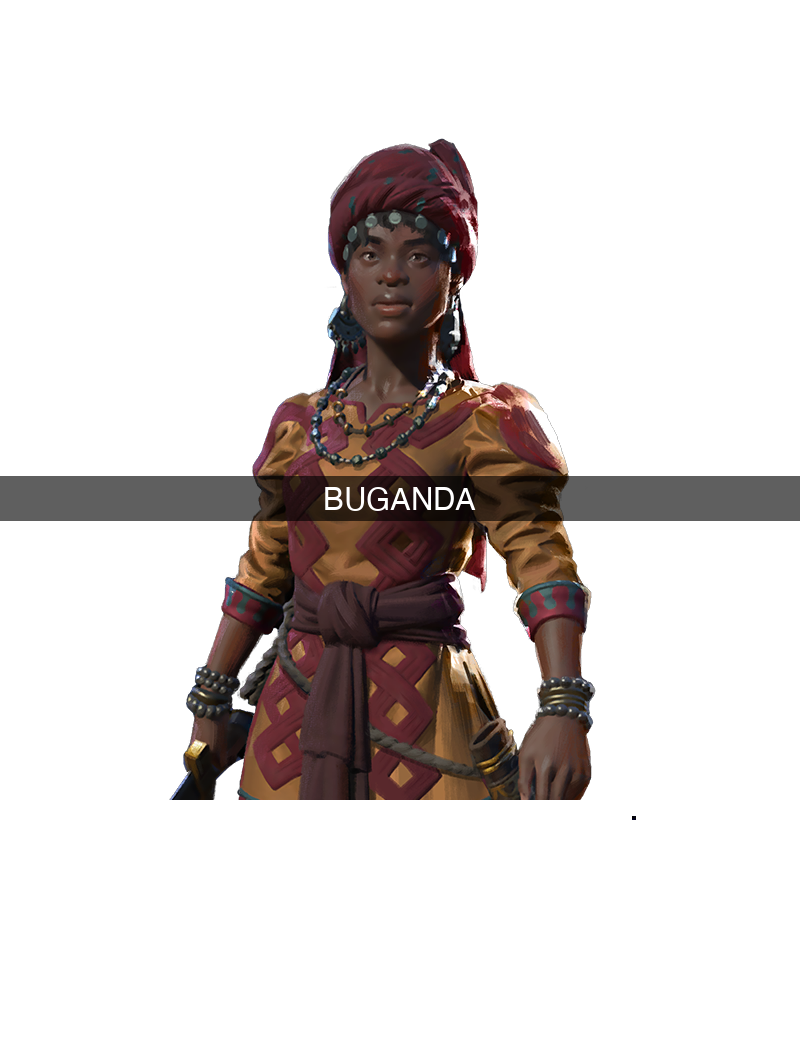
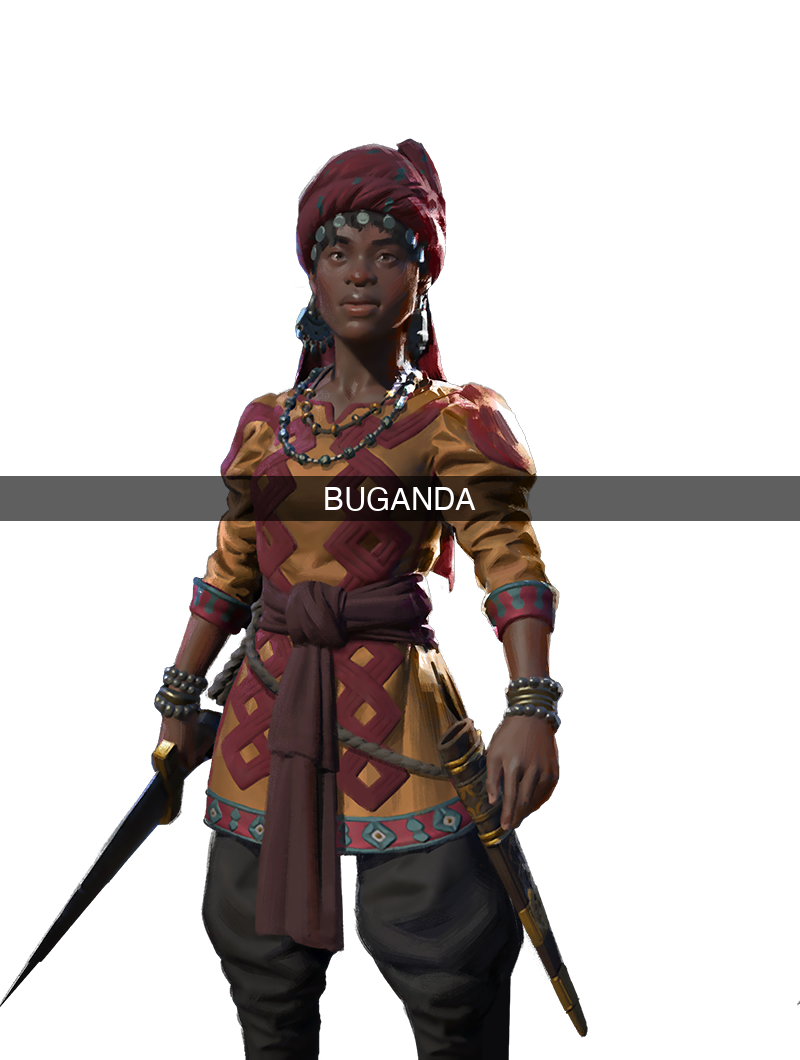
Fix ESC/pause menu loading screen cutoff for civ-specific stubs
The ESC menu uses background-size:contain (shows full image) unlike the
loading screen which uses cover (clips bottom). Civ stubs were generated
from the raw CIVBIG extract which has truncated alpha. Fixed generate-stubs
to use the base loading screen (full body) as source for civ stubs.
Tested with amina/buganda — remaining civs to be regenerated after confirm.

Changed region(s): [[0.0, 0.1245, 0.75, 1.0]]

diff --git a/scripts/generate-stubs.py b/scripts/generate-stubs.py
@@ -293,11 +293,18 @@ def generate_leader_stubs(leader, civs, dry_run=False, force=False):
     """
     icon_key = leader["icon_key"]
 
-    # Load base loading screen: prefer extracted original
+    # Load base loading screen: prefer the mod's base loading screen (already
+    # generated by generate_base_loading), then extracted original, then reference.
+    # The base loading screen has the correct full-body image needed for ESC screen.
+    base_loading_path = os.path.join(
+        MOD_DIR, "images", "loading", f"lsl_{icon_key}.png"
+    )
     loading_original_path = os.path.join(ASSETS_DIR, "leaders", icon_key, "loading_original.png")
     ref_path = os.path.join(ASSETS_DIR, "leaders", icon_key, "reference.png")
 
-    if os.path.isfile(loading_original_path):
+    if os.path.isfile(base_loading_path):
+        base_loading = Image.open(base_loading_path).convert("RGBA")
+    elif os.path.isfile(loading_original_path):
         base_loading = Image.open(loading_original_path).convert("RGBA")
     elif os.path.isfile(ref_path):
         reference = Image.open(ref_path).convert("RGBA")

diff --git a/README.md b/README.md
@@ -101,6 +101,7 @@ scripts/
 - [x] CIVBIG format decoded: BC7 data at byte 16, hex icons 45/32 aspect ratio (256×360, 128×180, 64×90)
 - [x] Icon dimensions verified: hex = rectangular (45/32), circ = square
 - [x] Icons working in all UI contexts (both fxs-icon and getLeaderPortraitIcon paths)
+- [x] ESC/pause menu loading screen fix: civ stubs use base loading screen (full body) not raw CIVBIG extract
 
 ### Phase 3: AI-Generated Artwork (next)
 - [ ] Build image generation pipeline (API integration with DALL-E / Midjourney / SD)
@@ -138,7 +139,7 @@ scripts/
 
 - **ImportFiles can override base game files** when the relative path matches the base module's path (confirmed by BorderToggles community mod).
 
-- **Image format**: Loading screens are 800×1060 RGBA transparent PNGs. The game composites them over the civ scene via CSS `background-size: cover`.
+- **Image format**: Loading screens are 800×1060 RGBA transparent PNGs. The loading screen uses `background-size: cover` (clips bottom); the ESC/pause menu uses `background-size: contain` (shows full image). Civ stubs must use the full-body base image, not the raw CIVBIG extract which may have truncated alpha.
 
 - **Icon system has no civ awareness**: `IconDefinitions` table has no `CivilizationTypeOverride` column. Civ-specific icons require registering new IDs (e.g., `LEADER_AUGUSTUS_ROME`) and a UIScript to swap them at runtime.
 

diff --git a/knowledge/assets-knowledge.md b/knowledge/assets-knowledge.md
@@ -110,8 +110,14 @@ Exception: `simon_bolivar` → `TEXTURE_lsl_bolivar`
 
 ### Dimensions
 
-800×1060 pixels, RGBA with transparency. The game composites these over a
-civilization scene background via CSS `background-size: cover`.
+800×1060 pixels, RGBA with transparency. Two rendering contexts:
+- **Loading screen** (pre-game): `background-size: cover` in an oversized element — clips
+  bottom of image, only top ~65% visible
+- **ESC/pause menu** (in-game): `background-size: contain` — shows the **full** image
+
+CIVBIG-extracted textures may have truncated alpha (figure ends before canvas bottom).
+The base loading screen (`lsl_{leader}.png`) generated from reference images has full-body
+content. Civ-specific stubs must use the base loading screen as source, not the raw extract.
 
 ### File sizes
 

diff --git a/planning/worklog.md b/planning/worklog.md
@@ -55,7 +55,9 @@
 - Original images: 800×1060 RGBA transparent PNGs (BC7-compressed in CIVBIG, 1,132,544 bytes each)
 - Base game references: `blp:lsl_<name>.png` (packed in BLP archives)
 - Mod references: `fs://game/<mod-id>/<path>.png` for PNG files
-- CSS composites image over civ scene via `background-size: cover`
+- Loading screen CSS: `background-size: cover` (clips bottom ~35%)
+- ESC/pause menu CSS: `background-size: contain` (shows full image)
+- CIVBIG extracts may have truncated alpha; civ stubs use base loading screen (full body) as source
 
 #### Icon System
 - `IconDefinitions` table has no `CivilizationTypeOverride` column
